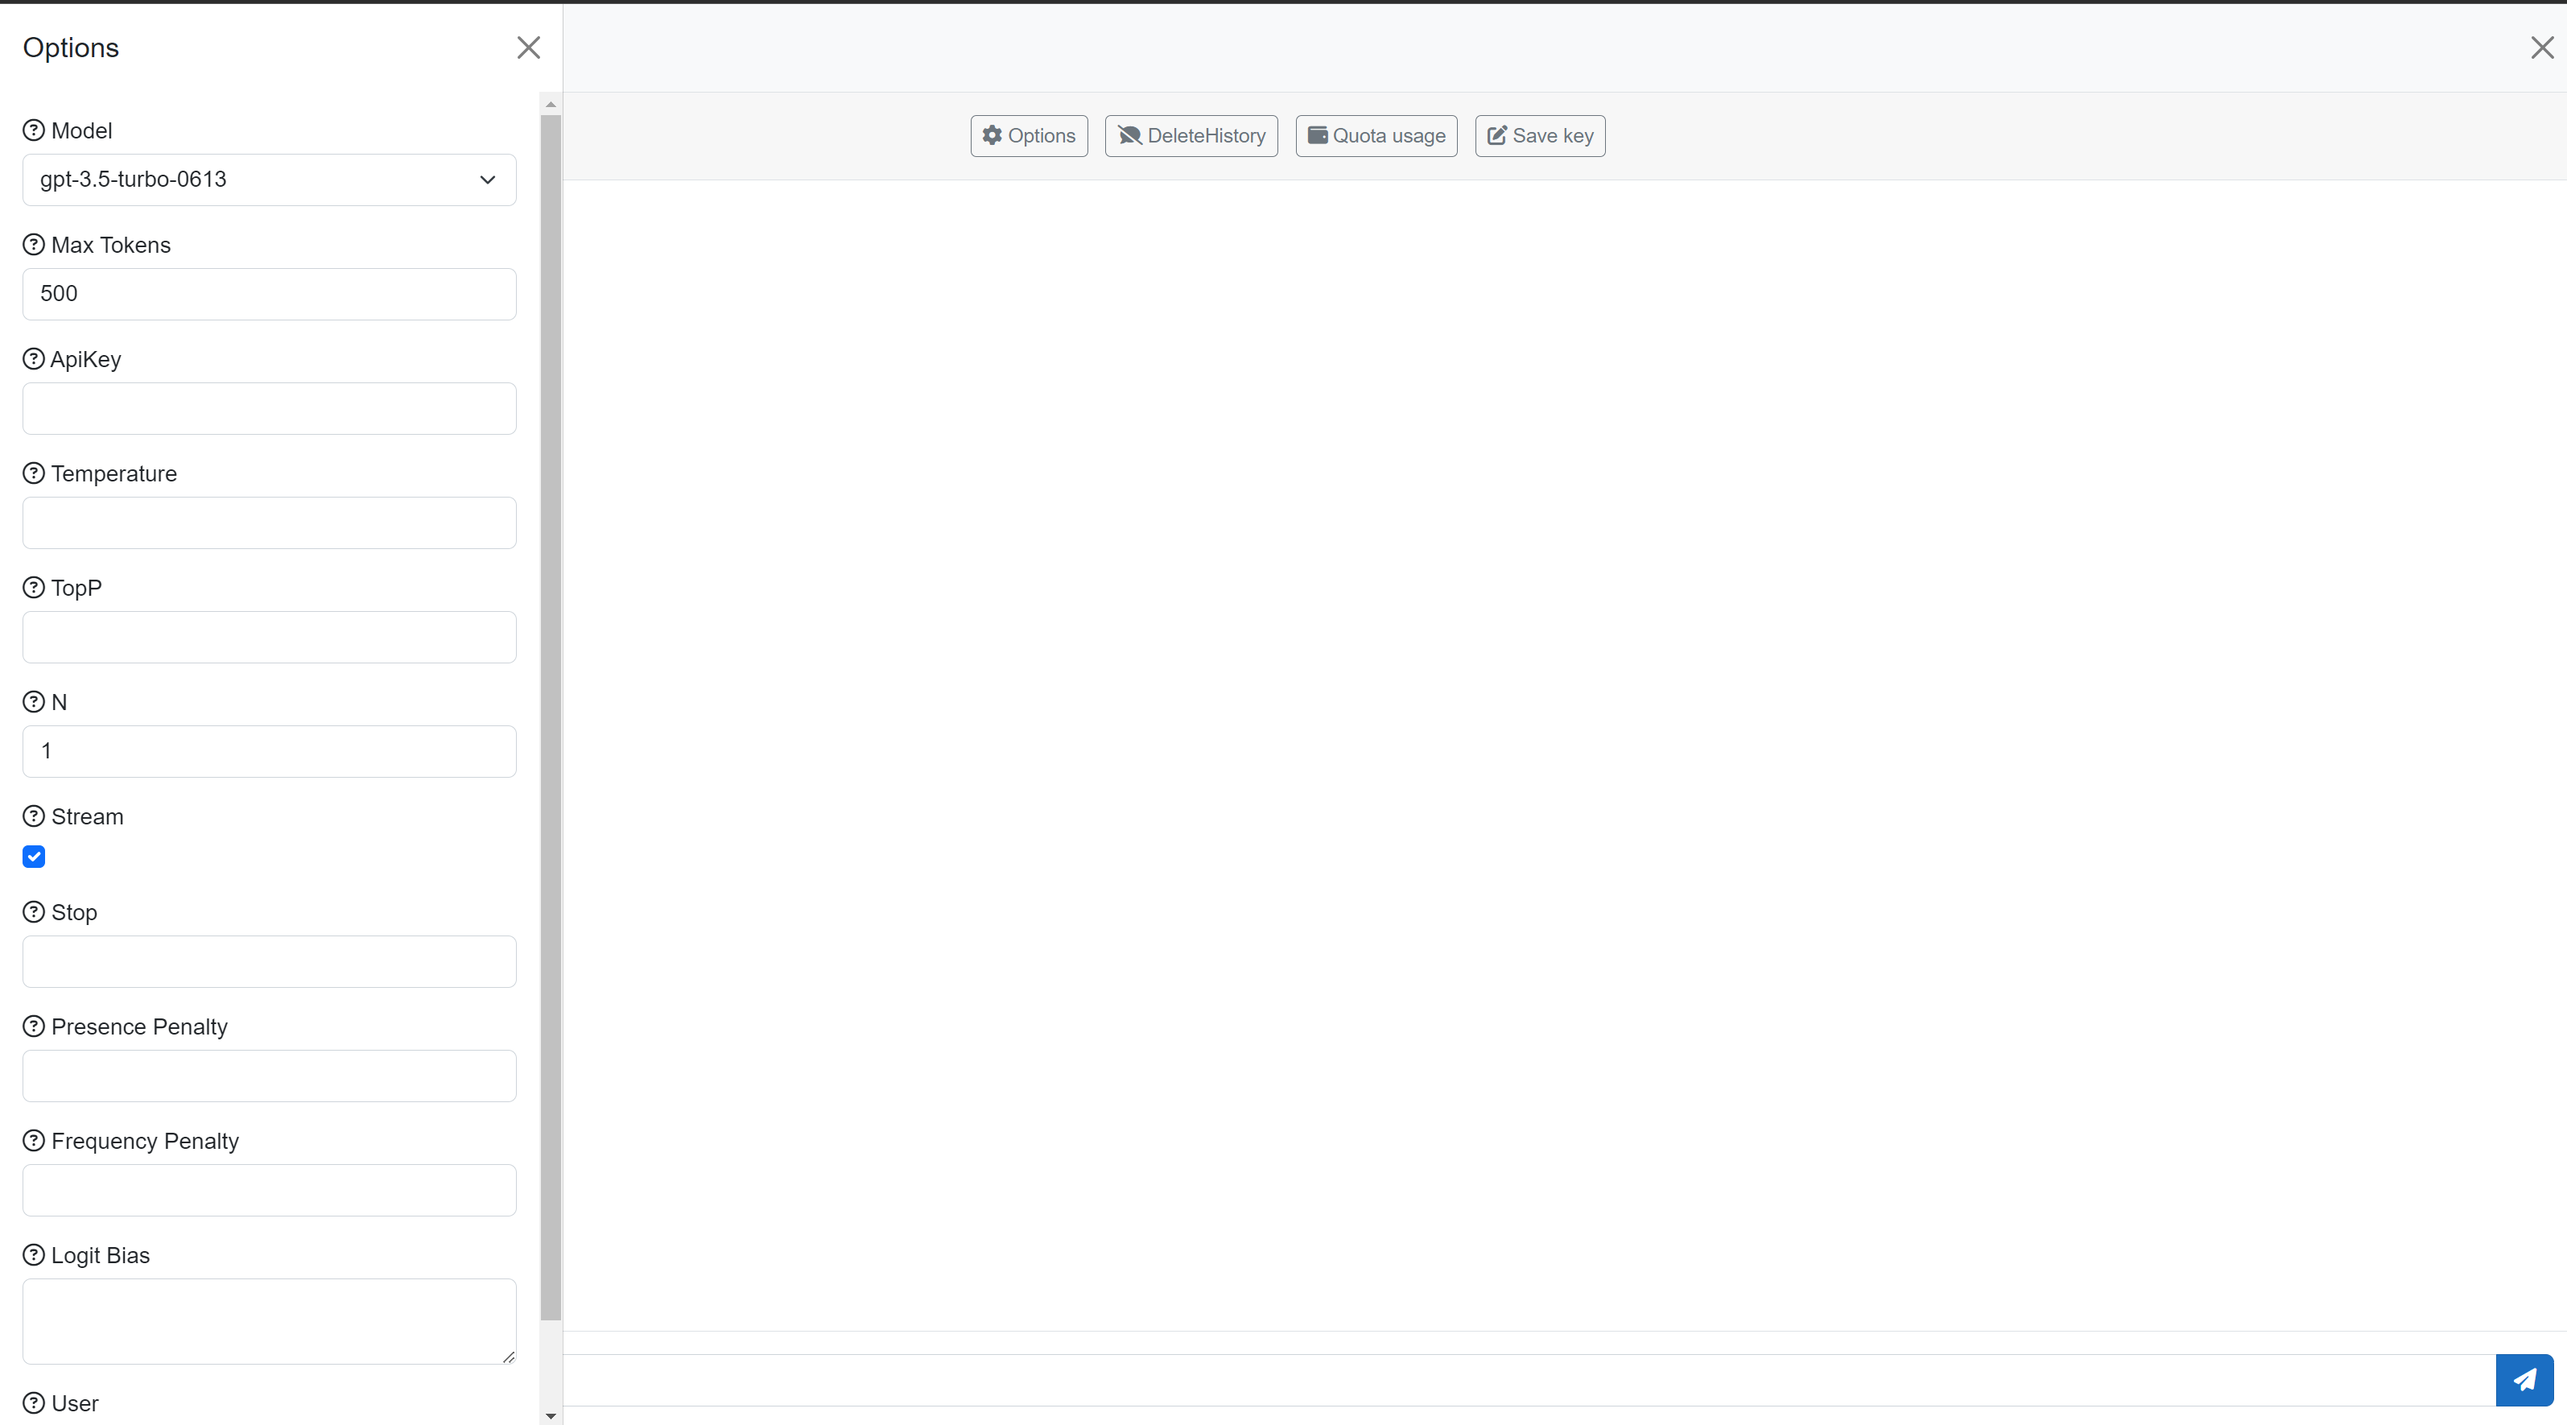
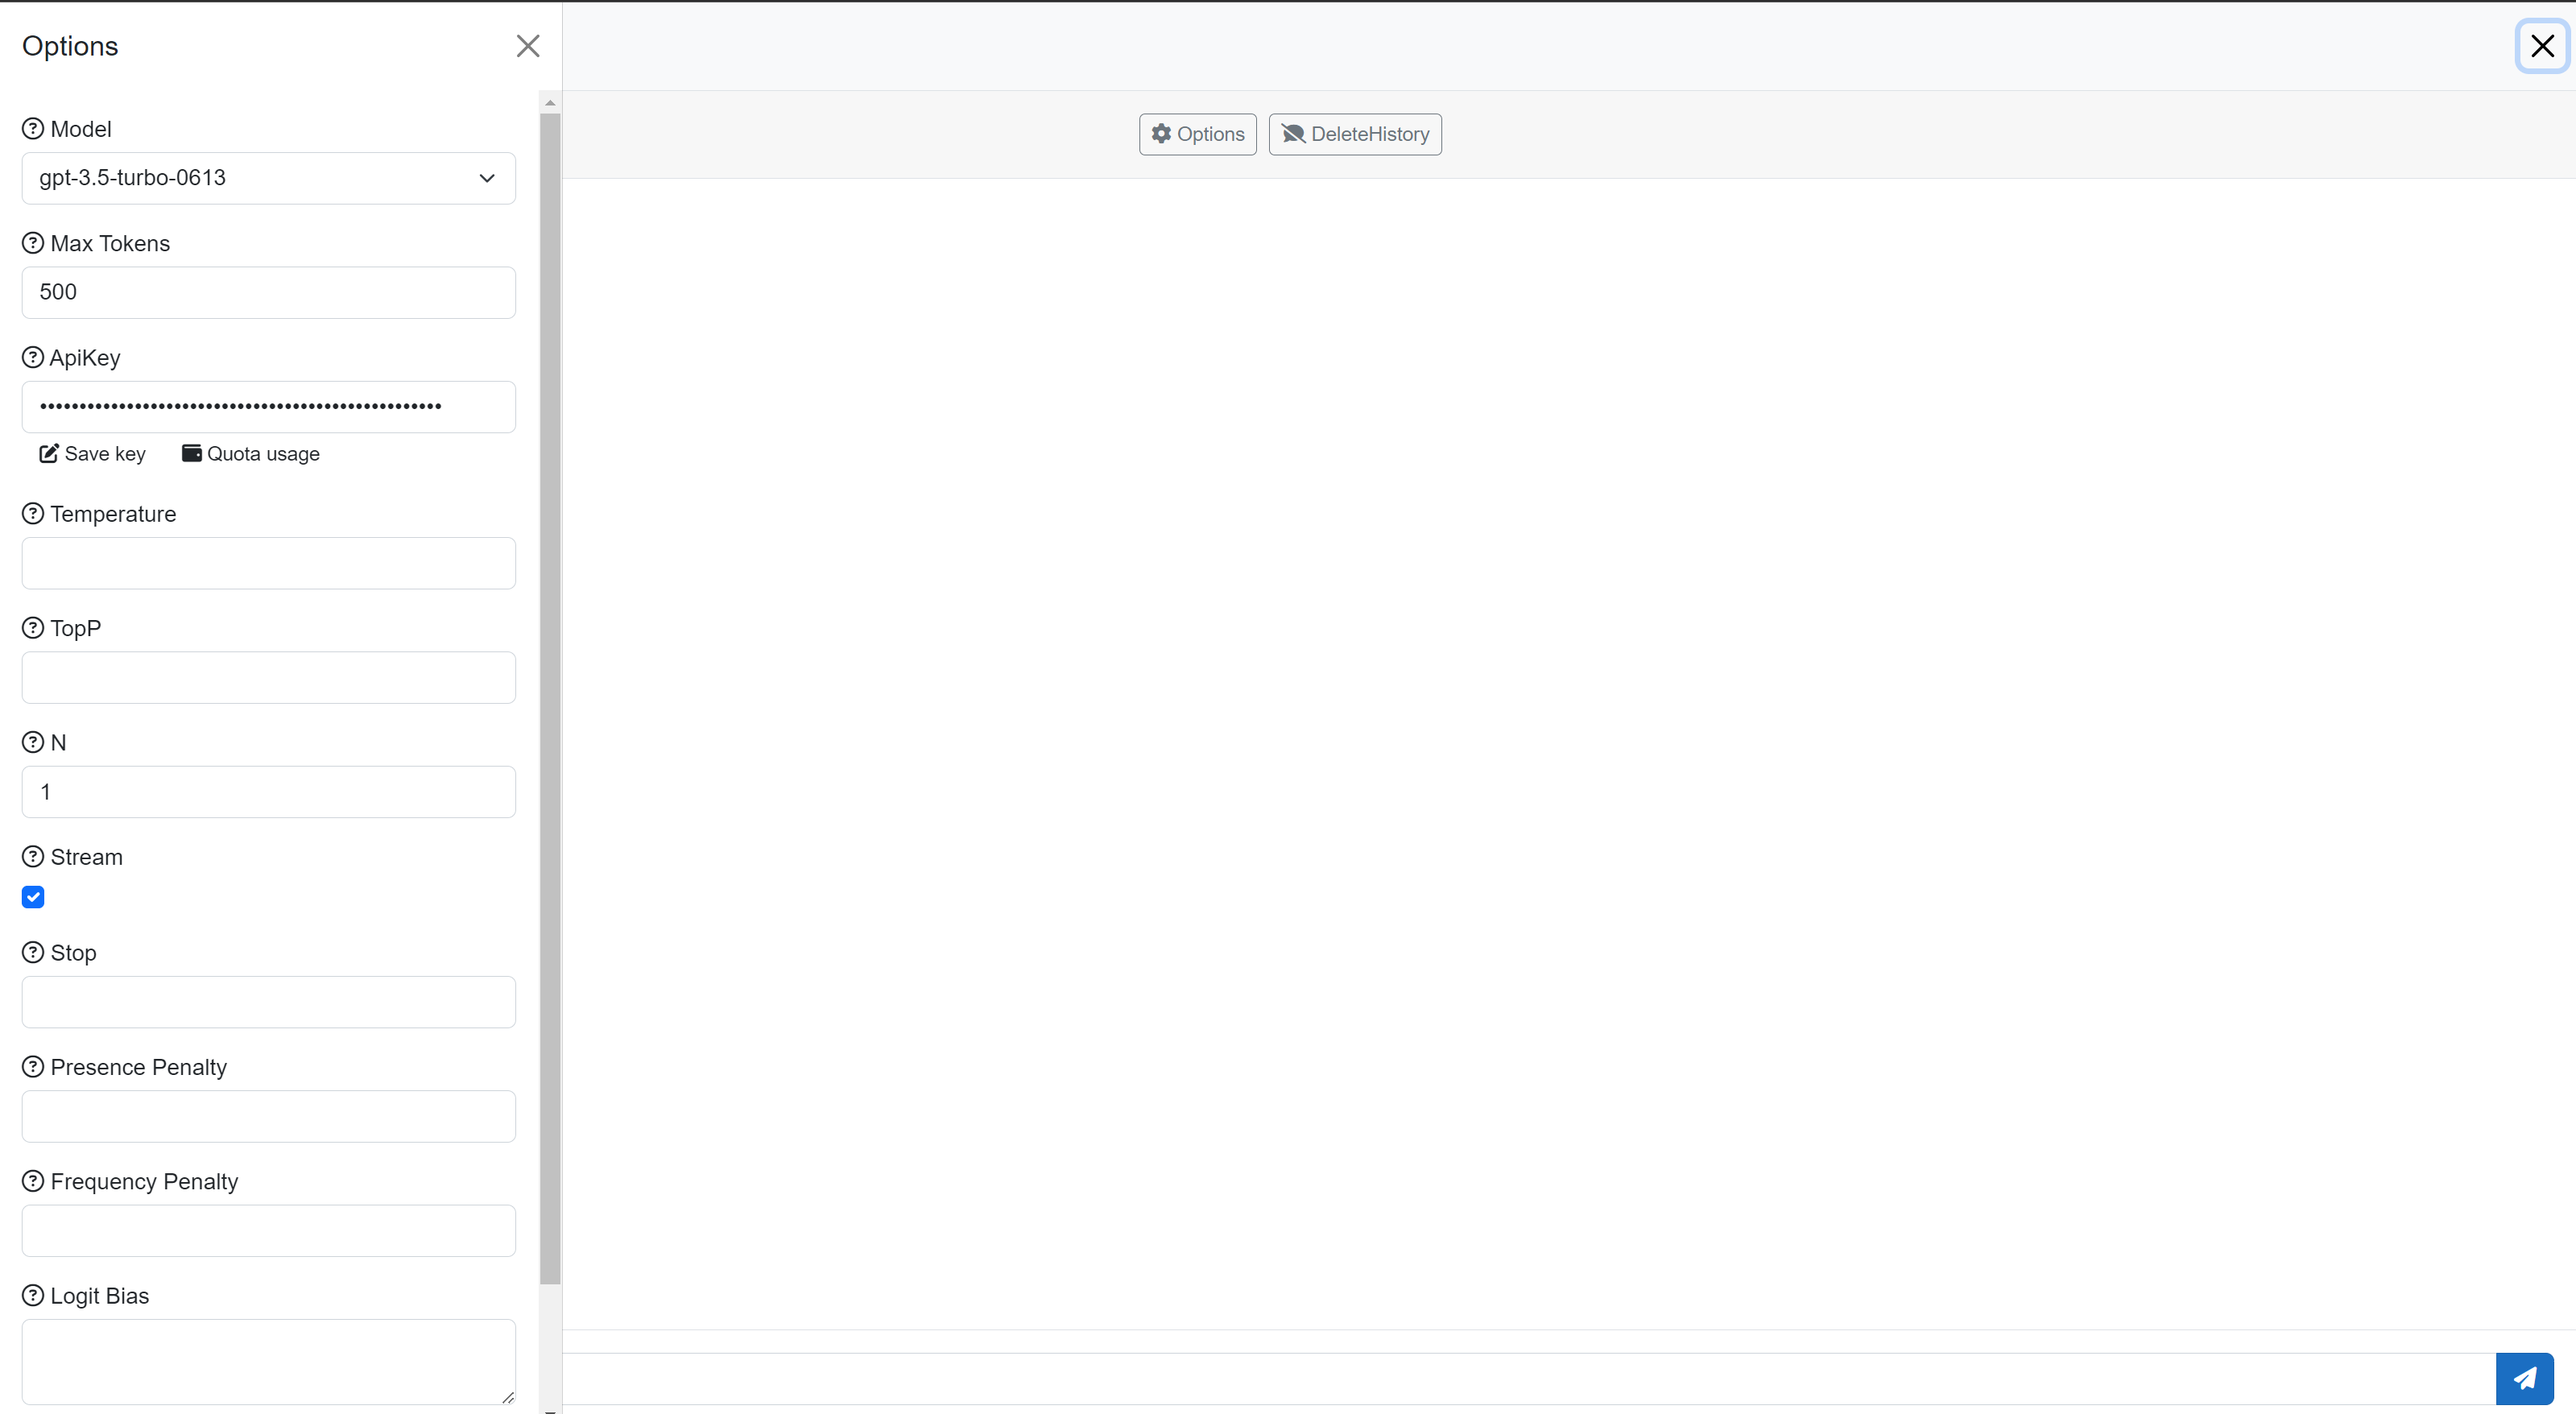
Fix major problem and Update README
Fix refresh page bug and update README.md

diff --git a/BlazorApp1/BlazorApp1/Pages/Chat.razor.cs b/BlazorApp1/BlazorApp1/Pages/Chat.razor.cs
@@ -49,19 +49,21 @@ public class ChatPage : PageComponentBase
             Messages = new List<ChatCompletionMessage>()
         };
 
-        /*ChatModels = Enum.GetValues(typeof(ChatModel)).Cast<ChatModel>().Select(x => x.ToStringModel()).ToList();*/
-        
     }
 
+    protected override async Task OnAfterRenderAsync(bool firstRender)
+    {
+        //pre use localStorage key
+        var str = await localStorage.GetItemAsStringAsync("keyvalue");
+        if (str != null)
+        {
+            Settings.ApiKey = AesEncryption.Decrypt(str);
+            UpdateClient();
+        }
+    }
 
     protected async Task OnSubmitAsync()
     {
-        Console.WriteLine("1");
-        if (Settings.ApiKey != string.Empty)
-        {
-            OpenAIClient = new OpenAIClient(Settings);
-        }
-
         IsProcessing = true;
         Request.Messages.Add(new ChatCompletionMessage("user", Prompt ?? string.Empty));
 
@@ -132,6 +134,7 @@ public class ChatPage : PageComponentBase
         await localStorage.SetItemAsStringAsync("Message",json);
     }
 
+
     protected async Task GetMessage()
     {
         var savedMessage = await localStorage.GetItemAsStringAsync("Message");
@@ -149,6 +152,7 @@ public class ChatPage : PageComponentBase
         StateHasChanged();
     }
 
+    //Delete uset massage
     protected async Task DeleteUserMessage(string content)
     {
         if (Messages != null)
@@ -168,6 +172,8 @@ public class ChatPage : PageComponentBase
         StateHasChanged();
     }
 
+
+    //delete ChatGpt Message
     protected async Task DeleteGptMessage(string content)
     {
         if (Messages != null)
@@ -188,67 +194,11 @@ public class ChatPage : PageComponentBase
     }
 
 
-    public async Task GetLimit()
+    //update client setting
+    public void UpdateClient()
     {
-        var apikey = string.Empty;
-        if (Settings.ApiKey != null)
-        {
-            apikey = Settings.ApiKey;
-        }
-        else
-        {
-            apikey = Configuration.GetSection("OpenAI:ApiKey").Value;
-        }
-
-        using var client = new HttpClient();
-        client.DefaultRequestHeaders.Add("Authorization", "Bearer " + apikey);
-        client.DefaultRequestHeaders.Add("User-Agent", "Mozilla/5.0 (Windows NT 10.0; Win64; x64) AppleWebKit/537.36 (KHTML, like Gecko) Chrome/67.0.3396.99 Safari/537.36");
-        var response = await client.GetAsync("https://api.openai.com/dashboard/billing/subscription");
-        if (response.IsSuccessStatusCode)
-        {
-            var responseBody = await response.Content.ReadAsStringAsync();
-            dynamic jsonResponse = JsonConvert.DeserializeObject(responseBody);
-            MaxUse = jsonResponse.hard_limit_usd;
-        }
-        else
-        {
-            await JsRuntime.InvokeVoidAsync("alert", "Error");
-            await Task.CompletedTask;
-        }
-        var today = DateTime.Today;
-        var firstDayOfMonth = new DateTime(today.Year, today.Month, 1);
-        var lastDayOfMonth = new DateTime(today.Year, today.Month, DateTime.DaysInMonth(today.Year, today.Month));
-        var startDate = firstDayOfMonth.ToString("yyyy-M-d");
-        var endDate = lastDayOfMonth.ToString("yyyy-M-d");
-        var response1 =
-            await client.GetAsync(
-                $"https://api.openai.com/dashboard/billing/usage?start_date={startDate}&end_date={endDate}");
-        if (response1.IsSuccessStatusCode)
-        {
-            var responseBody = await response1.Content.ReadAsStringAsync();
-            dynamic jsonResponse = JsonConvert.DeserializeObject(responseBody);
-            NowUse = jsonResponse.total_usage;
-            var dotIndex = NowUse.IndexOf('.');
-            if (dotIndex >= 0 && dotIndex <= NowUse.Length)
-            {
-                var numberString = NowUse[..dotIndex];
-                //to double
-                var number = double.Parse(numberString) / 100;
-                // to string
-                var result = number.ToString();
-                NowUse = result;
-            }
-        }
-        else
-        {
-            await JsRuntime.InvokeVoidAsync("alert", "Error");
-            await Task.CompletedTask;
-        }
-
-        await JsRuntime.InvokeVoidAsync("alert", $"Max: {MaxUse} , NowUsed: {NowUse}");
+        OpenAIClient = new OpenAIClient(Settings);
     }
-
-
 
     public class Message
     {

diff --git a/BlazorApp1/BlazorApp1/Pages/CreateImageVariation.razor.cs b/BlazorApp1/BlazorApp1/Pages/CreateImageVariation.razor.cs
@@ -9,7 +9,7 @@ namespace BlazorApp1;
 public class CreateImageVariationPage : ImagePageBase
 {
     protected CreateImageVariationRequest Request { get; set; } = null!;
-    protected Settings Settings { get; set; } = new Settings();
+    
     protected override void OnInitialized()
     {
         base.OnInitialized();
@@ -22,8 +22,22 @@ public class CreateImageVariationPage : ImagePageBase
             ResponseFormat = ImageResponseFormat.B64Json.ToStringFormat(),
             N = 1
         };
+        Set = new Settings();
     }
 
+    protected override async Task OnAfterRenderAsync(bool firstRender)
+    {
+        if (Set.ApiKey != null)
+        {
+            var str = await localStorage.GetItemAsStringAsync("keyvalue");
+            if (str != null)
+            {
+                Set.ApiKey = AesEncryption.Decrypt(str);
+            }
+
+        }
+
+    }
     public async Task OnInputFileForImageChange(InputFileChangeEventArgs e)
     {
         Request.Image = await GetFileBytes(e);
@@ -32,9 +46,9 @@ public class CreateImageVariationPage : ImagePageBase
 
     protected async Task OnSubmitAsync()
     {
-        if (Settings.ApiKey != null)
+        if (Set.ApiKey != null)
         {
-            OpenAIClient = new OpenAIClient(Settings);
+            OpenAIClient = new OpenAIClient(Set);
         }
         IsProcessing = true;
 

diff --git a/BlazorApp1/BlazorApp1/Pages/CreateImageEdit.razor.cs b/BlazorApp1/BlazorApp1/Pages/CreateImageEdit.razor.cs
@@ -9,7 +9,6 @@ namespace BlazorApp1;
 public class CreateImageEditPage : ImagePageBase
 {
     protected CreateImageEditRequest Request { get; set; } = null!;
-    protected Settings Settings { get; set; } = new Settings();
     protected override void OnInitialized()
     {
         base.OnInitialized();
@@ -23,6 +22,21 @@ public class CreateImageEditPage : ImagePageBase
             ResponseFormat = ImageResponseFormat.B64Json.ToStringFormat(),
             N = 1
         };
+        Set = new Settings();
+    }
+
+    protected override async Task OnAfterRenderAsync(bool firstRender)
+    {
+        if (Set.ApiKey != null)
+        {
+            var str = await localStorage.GetItemAsStringAsync("keyvalue");
+            if (str != null)
+            {
+                Set.ApiKey = AesEncryption.Decrypt(str);
+            }
+
+        }
+
     }
 
     public async Task OnInputFileForImageChange(InputFileChangeEventArgs e)
@@ -39,9 +53,9 @@ public class CreateImageEditPage : ImagePageBase
 
     protected async Task OnSubmitAsync()
     {
-        if (Settings.ApiKey != null)
+        if (Set.ApiKey != null)
         {
-            OpenAIClient = new OpenAIClient(Settings);
+            OpenAIClient = new OpenAIClient(Set);
         }
         IsProcessing = true;
 

diff --git a/BlazorApp1/BlazorApp1/Pages/CreateImage.razor.cs b/BlazorApp1/BlazorApp1/Pages/CreateImage.razor.cs
@@ -9,12 +9,10 @@ namespace BlazorApp1;
 public class CreateImagePage : ImagePageBase
 {
     protected CreateImageRequest Request { get; set; } = null!;
-    protected Settings Set { get; set; }
-
+    
     protected override void OnInitialized()
     {
         base.OnInitialized();
-        Set = new Settings();
         Request = new CreateImageRequest
         {
             Prompt = string.Empty,
@@ -22,6 +20,20 @@ public class CreateImagePage : ImagePageBase
             ResponseFormat = ImageResponseFormat.B64Json.ToStringFormat(),
             N = 1
         };
+        Set = new Settings();
+    }
+
+    protected override async  Task OnAfterRenderAsync(bool firstRender)
+    {
+        if (Set.ApiKey != null)
+        {
+            var str = await localStorage.GetItemAsStringAsync("keyvalue");
+            if (str != null)
+            {
+                Set.ApiKey = AesEncryption.Decrypt(str);
+            }
+        }
+        
     }
 
     protected async Task OnSubmitAsync()

diff --git a/BlazorApp1/BlazorApp1/Pages/ImagePageBase.razor.cs b/BlazorApp1/BlazorApp1/Pages/ImagePageBase.razor.cs
@@ -1,4 +1,5 @@
-using Cledev.OpenAI.V1.Contracts.Images;
+using Cledev.OpenAI;
+using Cledev.OpenAI.V1.Contracts.Images;
 using Cledev.OpenAI.V1.Helpers;
 using Microsoft.AspNetCore.Components;
 using Microsoft.JSInterop;
@@ -11,6 +12,7 @@ public abstract class ImagePageBase : PageComponentBase
     public IJSRuntime JsRuntime { get; set; }
 
     protected CreateImageResponse? Response { get; set; }
+    public Settings Set { get; set; }
 
     public IList<string> Sizes { get; set; } = new List<string>();
     public IList<string> Formats { get; set; } = new List<string>();
@@ -21,7 +23,9 @@ public abstract class ImagePageBase : PageComponentBase
     {
         Sizes = Enum.GetValues(typeof(ImageSize)).Cast<ImageSize>().Select(x => x.ToStringSize()).ToList();
         Formats = Enum.GetValues(typeof(ImageResponseFormat)).Cast<ImageResponseFormat>().Select(x => x.ToStringFormat()).ToList();
+        Set = new Settings();
     }
+
 }
 
 public class Image

diff --git a/README.md b/README.md
@@ -1,7 +1,7 @@
 # AIStudio
 ## How to use
 
-git clone Blazor App. Cd to appsetting.json and input your api key and option_id.
+git clone Blazor App. Cd to appsetting.json and input your api key
 
 ## Initial
 
@@ -29,6 +29,12 @@ git clone Blazor App. Cd to appsetting.json and input your api key and option_id
 * Add save key button for /Image page
 * fix some probloms
 * remove authenorization in App.razor
+
+### 7/13/2023 update2
+
+* Fix refresh bug (in chatpage or image page,refresh page will get error because of the JavaScript error call in Razor initializeAsync)
+* Fix changing the apikey does not take effect
+* Fully adaptable to mobile devices
 
 Login：
 ![Login](/Images/Login.png)
